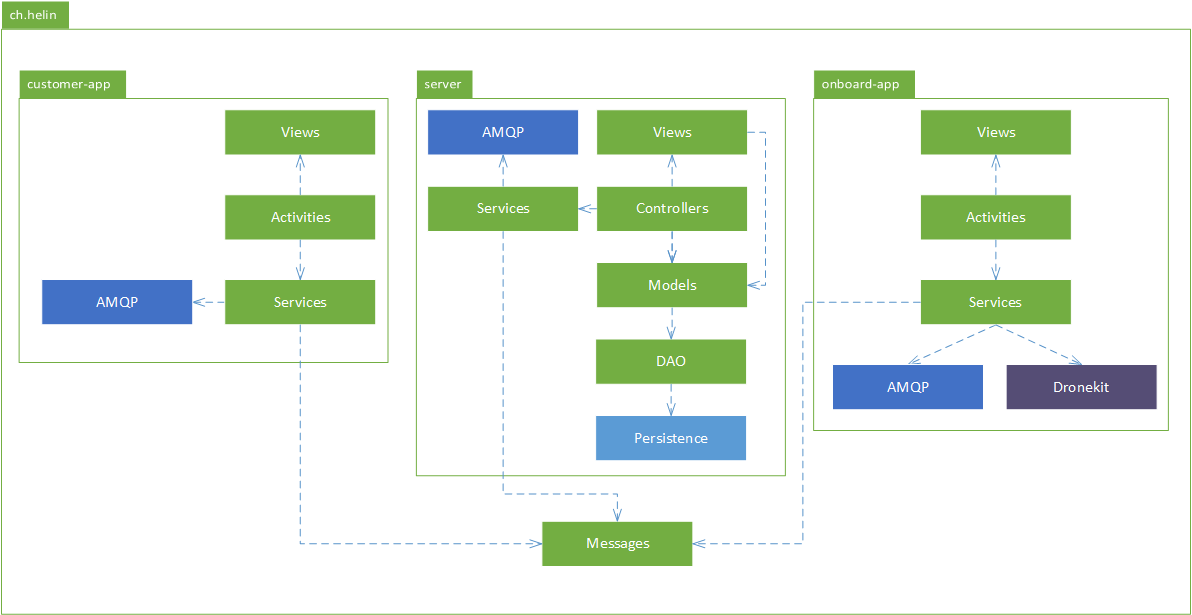
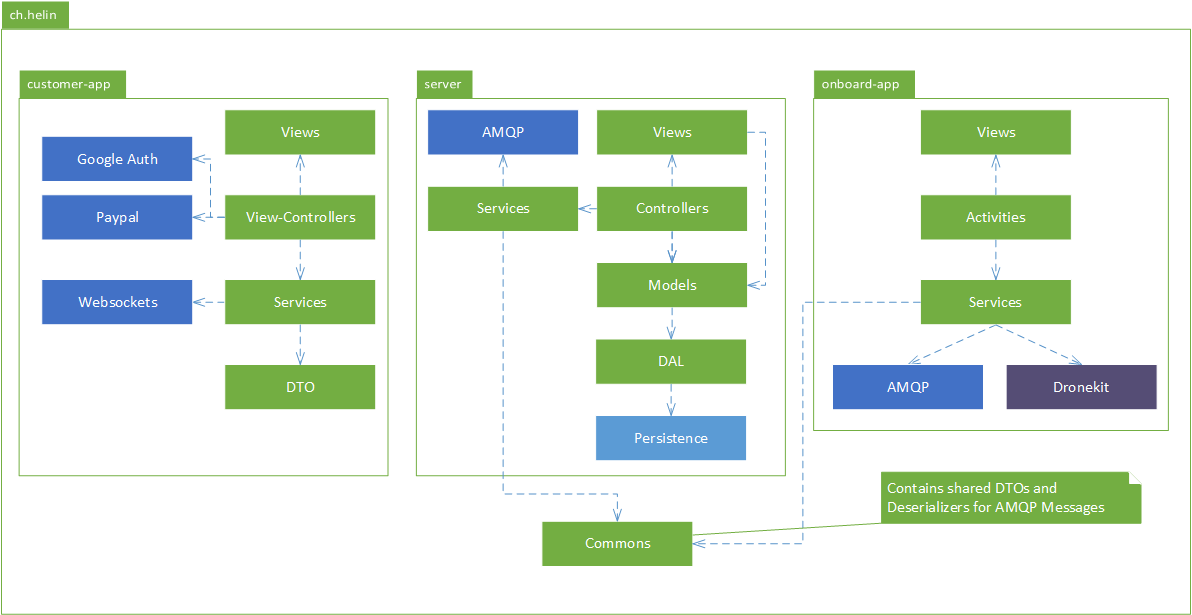
improved architecture

diff --git a/chapter/11_architecture/architecture.tex b/chapter/11_architecture/architecture.tex
@@ -2,7 +2,7 @@
 
 \section{Ziele}
 
-Die folgende Architektur soll es ermöglichen, eine Flotte von Drohnen automatisiert und zentralisiert zu verwalten. Die Kommunikation zwischen Server und Drohne muss ausserdem von beiden Seiten initiierbar sein. Zusätzlich muss eine Schnittstelle für Kunden existieren, damit Bestellungen getätigt werden können. 
+Die folgende Architektur soll es ermöglichen, eine Flotte von Drohnen automatisiert und zentralisiert zu verwalten. Die Kommunikation zwischen Server und Drohne muss ausserdem von beiden Seiten initiierbar sein (Push-Messages). Zusätzlich muss eine Schnittstelle für Kunden existieren, damit Bestellungen getätigt werden können. 
 
 \section{Übersicht}
 
@@ -29,7 +29,6 @@ Abbildung \ref{fig:logical-architecture-overview} zeigt die Hauptkomponenten, so
 \section{Server-Komponente}
 
 \subsection{Anforderungen}
-%Todo sauber referenzieren
 Aus den in den Anforderungen definierten Zielen, ergeben sich für die Server-Komponente folgende Anforderungen:
 
 \begin{itemize}
@@ -42,7 +41,7 @@ Aus den in den Anforderungen definierten Zielen, ergeben sich für die Server-Ko
 \subsection{Layers}
 Die Architektur des Servers basiert auf dem {MVC Pattern \cite{MVC}}, da dieses für CRUD Applikationen mit Benutzeroberfläche besonders geeignet ist und dafür viele geeignete Frameworks zur Verfügung stehen.\\
 
-Für Komponenten die aus unterschiedlichen Controllern verwendet werden, wurde zusätzlich eine Service Komponente verwendet. Die Services stellen Abstraktionen für wichtige Funktionen wie das Messaging und die Routenberechnung bereit.
+Für Komponenten die aus unterschiedlichen Controllern verwendet werden, wurde zusätzlich eine Service Komponente verwendet. Die Services stellen Abstraktionen für wichtige Funktionen wie das Messaging und die Routenberechnung bereit.\\
 
 Die Verantwortlichkeiten und Kollaborationen der Layer werden nachfolgend genauer definiert.
 
@@ -107,7 +106,7 @@ Der Data Access Layer bietet die Möglichkeit auf die Persistence Library zuzugr
 
 \subsection{Layer}
 
-Die App enthält die normalen Android-Application-Layer wie Activities und Views. Zusätzlich kommt der Service-Layer hinzu. Dieser enthält keine Android-Services, sondern selbst entwickelte Service-Klassen.
+Die App enthält die normalen Android-Application-Layer wie Activities und Views. Zusätzlich kommt der Service-Layer hinzu. Dieser enthält keine Android-Services, sondern selbst entwickelte Service-Klassen. Android Services werden nur zwingend benötigt, wenn etwas im Hintergrund weiterlaufen soll. Da die Onboard-App aber immer im Vordergrund läuft, konnte die aufwendige Kommunikation mit Android-Services mit Hilfe von {Dependency-Injection \cite{DI} umgangen werden.\\
 
 \subsubsection{Service-Komponente}
 
@@ -124,7 +123,7 @@ Die App enthält die normalen Android-Application-Layer wie Activities und Views
 	\begin{itemize}
 		\item Activities-Layer
 		\item AMQP-Library
-		\item Messages
+		\item Commons
 	\end{itemize}
 	\\ \hline
 \end{tabular}
@@ -137,11 +136,14 @@ Die App enthält die normalen Android-Application-Layer wie Activities und Views
 \begin{itemize}
 	\item Kommuniziert mit dem Server
 	\item Bietet eine Benutzeroberfläche für den Customer
+	\item Ermöglicht die Bezahlung von Produkten
+	\item Ermöglicht das Login über einen externen Identifikationsprovider
 \end{itemize}
 
 \subsection{Layer}
 
-Die App enthält die normalen Android-Application-Layer wie Activities und Views. Zusätzlich kommt der Service-Layer hinzu. Dieser enthält keine Android-Services, sondern selbst entwickelte Service-Klassen.
+\subsubsection{View-Layer}
+Ist zuständig für die Darstellung der Benutzeroberfläche und bindet die Schnittstellen zum Zahlungsanbieter und Identifikationsprovider an.
 
 \subsubsection{Service-Layer}
 \begin{tabular}{|p{.70\textwidth}|p{.30\textwidth}|} \hline
@@ -154,18 +156,19 @@ Die App enthält die normalen Android-Application-Layer wie Activities und Views
 		\item Ermöglicht das Senden von Nachrichten an den Server
 	\end{itemize}&
 	\begin{itemize}
-		\item Activities-Layer
-		\item AMQP-Library
-		\item Messages
+		\item View-Layer
+		\item Websockets-Library
+		\item Identifikationsprovider
+		\item Zahlungsanbieter
 	\end{itemize}
 	\\ \hline
 \end{tabular}
 
 \section{Kommunikations-Architektur}
 \label{sec:communication-architecture}
-Die Abbildung \ref{fig:communication-architecture-overview} zeigt die Kommunikations-Architektur in der Übersicht. Wichtig sind vor allem die verschiedenen verwendeten Protokolle, die benötigt werden um die Anforderungen erfüllen zu können. Für die Kommunikation mit dem Onboard-App wird Messaging ({\Gls{AMQP}) verwendet, um bidirektionale Kommunikation zu ermöglichen und die höchstmögliche Zuverlässigkeit zu erreichen. Eine Bidirektionale Kommunikation ist bei allen Geräten nötig um Live-Updates zu ermöglichen (Verfolgung der Drohne). Ausserdem muss die eingesetzte Technologie für die Kommunikation zwischen dem Server und den Onboard-App den Nicht-Funktionalen-Anforderungen gerecht werden, die im Bezug auf Verbindungsabbrüche und Verbindungswiederherstellung bestehen.\\
+Die Abbildung \ref{fig:communication-architecture-overview} zeigt die Kommunikations-Architektur in der Übersicht. Wichtig sind vor allem die verschiedenen verwendeten Protokolle, die benötigt werden um die Anforderungen erfüllen zu können. Für die Kommunikation mit dem Onboard-App wird Messaging ({\Gls{AMQP}) verwendet, um bidirektionale Kommunikation zu ermöglichen und die höchstmögliche Zuverlässigkeit zu erreichen. Eine bidirektionale bzw. beidseitig initiierbare Kommunikation ist bei allen Geräten nötig um Live-Updates zu ermöglichen (Verfolgung der Drohne). Ausserdem muss die eingesetzte Technologie für die Kommunikation zwischen dem Server und den Onboard-App den Nicht-Funktionalen-Anforderungen gerecht werden, die im Bezug auf Verbindungsabbrüche und Verbindungswiederherstellung bestehen.\\
 	
-Bei der Anbindung der Customer-App steht die Platzformunabhängigkeit der Schnittstelle mehr im Vordergrund als die Zuverlässigkeit der bidirektionalen Verbindung. Einzig die Liveupdates der Drohnenposition werden über die bidirektionale Verbindung gesendet. Deswegen wird dort vor allem HTTP verwendet und nur wo nötig Websockets eingesetzt. Damit können in Zukunft auch andere Geräte verwendet werden um das System anzusprechen, ohne dass sie ein Messaging-Protokoll unterstützen müssen.\\
+Bei der Anbindung der Customer-App steht die Platzformunabhängigkeit der Schnittstelle mehr im Vordergrund als die Zuverlässigkeit der bidirektionalen Verbindung. Einzig die Liveupdates der Drohnenposition werden über diese Verbindung gesendet. Deswegen wird dort vor allem HTTP verwendet und nur wo nötig Websockets eingesetzt. Damit können in Zukunft auch andere Geräte verwendet werden um das System anzusprechen, ohne dass sie ein Messaging-Protokoll unterstützen müssen.\\
 
 Die Anbindung an die Administrationsoberfläche erfolgt ebenfalls über HTTP und Websockets, da dort die Wahrscheinlichkeit eines Verbindungsabbruchs viel geringer ist als bei einem mobilen Gerät.\\
 
@@ -179,11 +182,11 @@ Die Anbindung an die Administrationsoberfläche erfolgt ebenfalls über HTTP und
 Messaging-Systeme und Protokolle bieten eine grosse Auswahl an Patterns die je nach Anforderungen verwendet werden können.({\cite{EIP}}) Für dieses Projekt benötigen wir nur einen kleinen Teil davon um den gestellten Anforderungen gerecht zu werden.
 %
 \subsubsection{Point-to-Point Channel}
-Um zwischen einer registrierten Drohne und dem Server einen sicheren und zuverlässigen Nachrichtenaustausch zu ermöglichen, wird jede Drohne bzw. jede App über einen separaten Point-to-Point Channel	\cite[S. 103]{EIP}} angebunden. Der Channel wird nach der Registrierung zugeteilt und stellt den Point-to-Point Kanal zwischen Drone und Server dar. Dies garantiert dem Server eine Nachricht an garantiert eine Drohne zu schicken.
+Um zwischen einer registrierten Drohne und dem Server einen sicheren und zuverlässigen Nachrichtenaustausch zu ermöglichen, wird jede Drohne bzw. jede App über einen separaten Point-to-Point Channel	\cite[S. 103]{EIP}} angebunden. Der Channel wird nach der Registrierung zugeteilt und stellt den Point-to-Point Kanal zwischen Drone und Server dar. Dies garantiert dem Server, eine Nachricht an nur eine Drohne zu schicken.
 %
 \subsubsection{At-most-once}
 
-Die Fehlersemantik At-most-once gibt die Sicherheit dass eine Drohne eine Mission oder einen Befehl nur ein Mal erhält. Ansonsten müsste das System idempotent gebaut werden. Exactly-once delivery ist in der Praxis eigentlich unmöglich umzusetzen, weshalb wir uns für diese Alternative entschieden haben. 
+Die Fehlersemantik At-most-once gibt die Sicherheit, dass eine Drohne eine Mission oder einen Befehl nur ein Mal erhält. Ansonsten müsste das System idempotent gebaut werden. Exactly-once delivery ist ausserdem in der Praxis eigentlich unmöglich umzusetzen, weshalb wir uns für diese Alternative entschieden haben. 
 %
 \subsubsection{Event-driven Consumer}
 {Event-driven Consumer \cite[S. 442]{EIP}} Systeme bieten die Möglichkeit auf Grund von Nachrichten Aktionen auszuführen. Beispielsweise:
@@ -194,17 +197,7 @@ Die Fehlersemantik At-most-once gibt die Sicherheit dass eine Drohne eine Missio
 	\item Smartphone des Kunden erhält neue Position der Drohne, auf der Karte wird die Position der Drohne angezeigt.
 \end{itemize}
 
-
-\subsection{Register Drone}
-%TODO gehört in die Umsetzung
-\begin{figure}[h]
-	\centering
-	\includegraphics[scale=1.0]{images/registerDrone.png}
-	\caption{Übersicht der Project Helin Architektur }
-	\label{fig:registerDrone}
-\end{figure}
-%
-\subsection{Order Cargo}
+\section{Bestellprozess}
 \begin{figure}[h]
 	\centering
 	\includegraphics[height=1.0\textheight]{images/sequence_diagram.png}
@@ -213,7 +206,9 @@ Die Fehlersemantik At-most-once gibt die Sicherheit dass eine Drohne eine Missio
 \end{figure}
 %
 Order Cargo (Abbildung \ref{fig:registerDrone}) beschreibt den Bestellprozess und die damit zusammenhängende Kommunikation. \\
-Der User möchte gerne an einem Anlass ein Produkt bestellen. Er bestellt mittels der App ein Produkt, der Server bestätigt ihm die Bestellung und schlägt einen Abwurfort vor. Sollte der Abwurfort dem Kunden nicht entsprechen, so kann er den Prozess abbrechen und ihn nocheinmal auslösen, sobald er sich in einer geografisch glücklicheren Lage befindet.
-\\
-Der Server evaluiert im Anschluss eine verfügbare Drone, welche den Auftrag ausführen kann und schlägt die Mission dem DroneOperator vor. Sollte die Drone verfügbar sein, so kann er diesen Auftrag bestätigen. Im Fall einer Wartungsarbeit kann der Auftrag zu diesem Zeitpunkt auch abgelehnt werden. Sobald der Auftrag angeommen wurde, erhält der DroneOperator genaue Angaben zur Beladung der Drohne. Anschliessend wird die Ladung bestätigt und der Server kann dem Kunden mitteilen, dass die Drone nun startklar ist. Während des Fluges erhält der Kunde Benachrichtigungen vom Server mit der aktuellen Position der Drohne. Sobald die Ladung abwurfbereit ist, wird der Kunde informiert und die Drohne kann die Ladung abwerfen. Im Anschluss fliegt die Drohen zur Basis zurück und bestätigt dem Server die Ankunft. So kann gewährleistet werden, dass die Drohne wieder eine eine Mission erhalten kann.
+
+
+Der Kunde bestellt mittels der App ein Produkt, der Server bestätigt ihm die Bestellung und schlägt einen Abwurfort vor. Sollte der Abwurfort dem Kunden nicht entsprechen, so kann er den Prozess abbrechen und ihn noch einmal auslösen, sobald er sich an einer passenderen Stelle befindet.\\
+
+Der Server evaluiert im Anschluss eine verfügbare Drohne, welche den Auftrag ausführen kann und zeigt die Mission dem Drone-Operator an. Sollte die Drohne bereit sein, so kann er diesen Auftrag bestätigen. Im Falle einer nötigen Wartungsarbeit kann der Auftrag zu diesem Zeitpunkt auch abgelehnt werden. Sobald der Auftrag angenommen wurde, erhält der Drone-Operator genaue Angaben zur Beladung der Drohne. Anschliessend wird die Ladung bestätigt und der Server kann dem Kunden mitteilen, dass die Drone nun startklar ist. Während des Fluges erhält der Kunde Benachrichtigungen vom Server mit der aktuellen Position der Drohne. Sobald die Ladung abgeworfen wurde, fliegt die Drohne zur Ladezone zurück und bestätigt dem Server die Ankunft. So kann gewährleistet werden, dass bekannt ist, ab wann die Drohne wieder verfügbar ist.
 %
